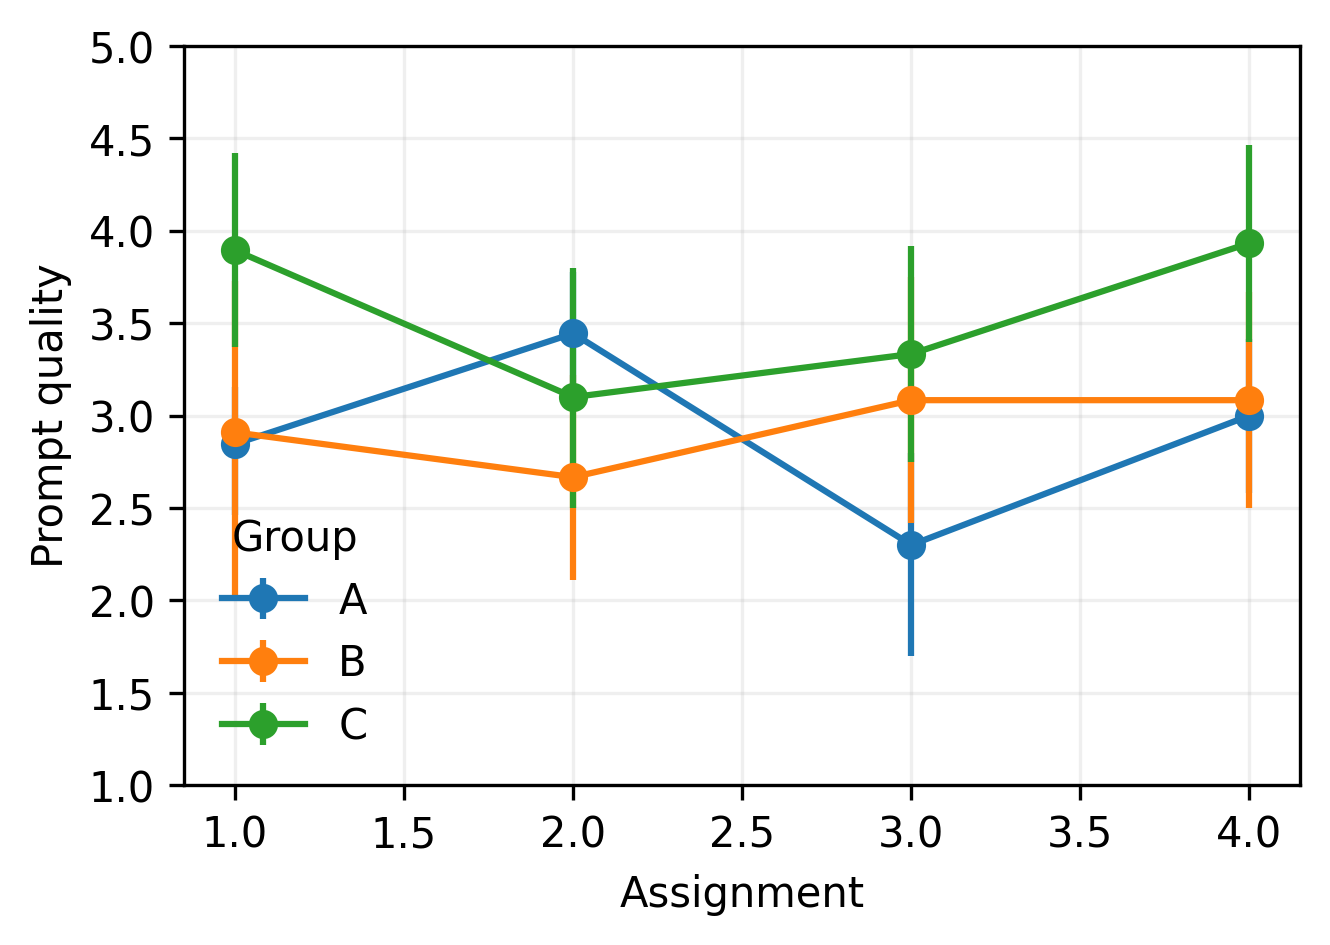
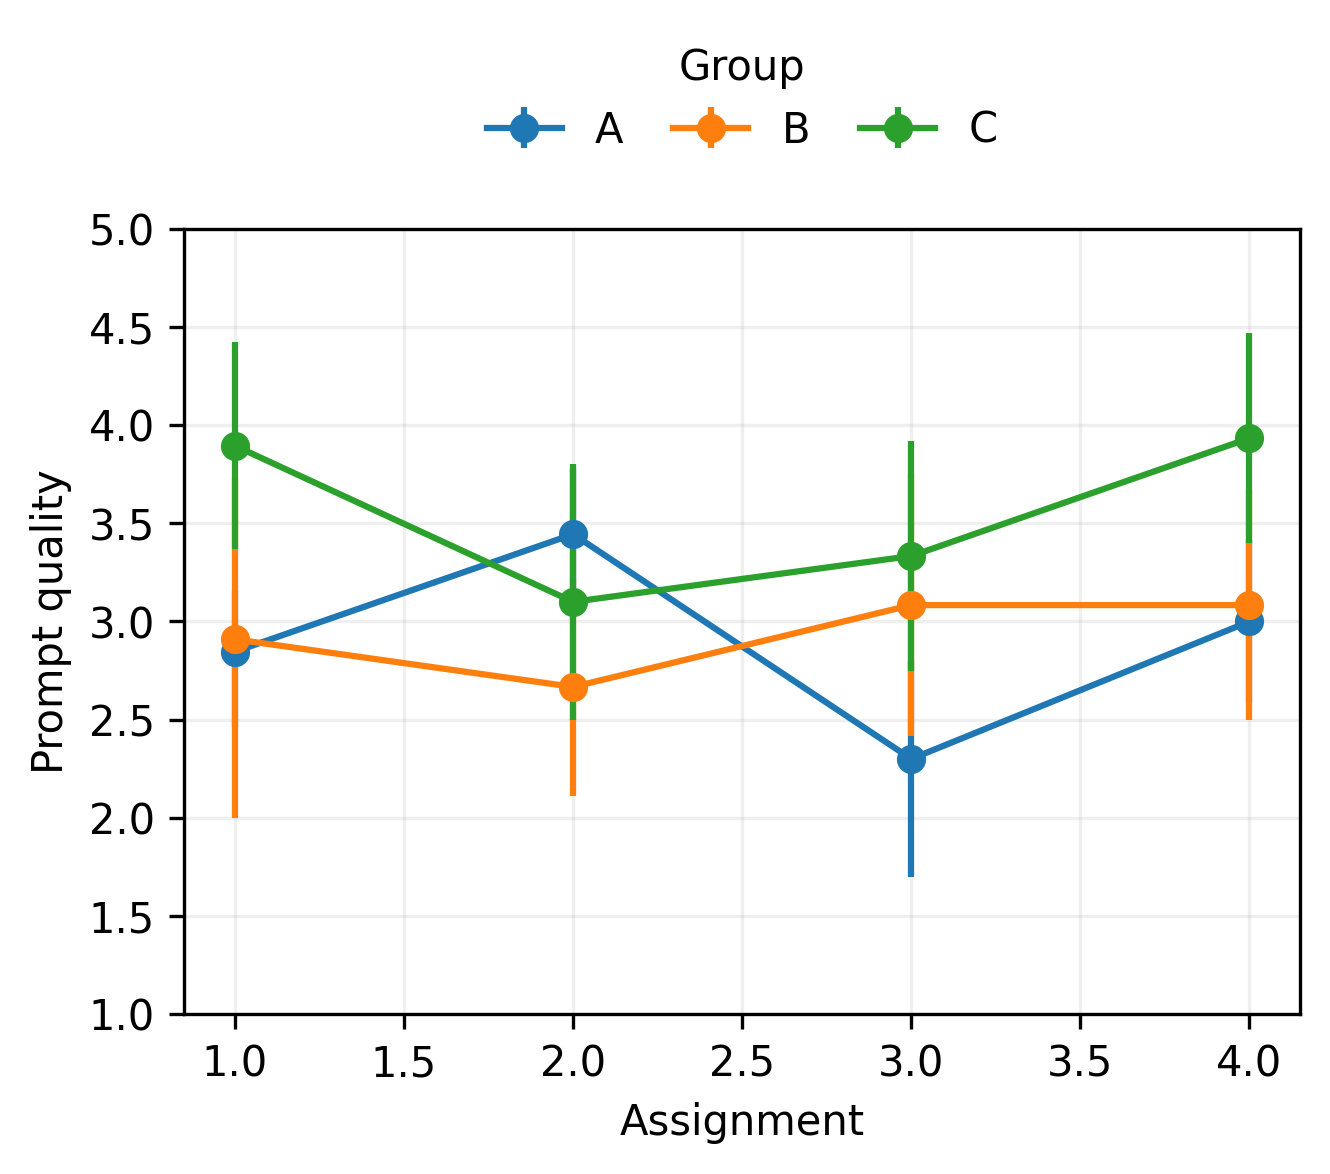
fix: move trajectory legend above axes

diff --git a/src/genai_literacy_trial/quant_figures.py b/src/genai_literacy_trial/quant_figures.py
@@ -18,14 +18,14 @@ def _save(fig, output_dir: Path, stem: str) -> list[Path]:
 
 
 def plot_prompt_quality_trajectory(table: pd.DataFrame, output_dir: Path) -> list[Path]:
-    fig, ax = plt.subplots(figsize=(4.8, 3.2))
+    fig, ax = plt.subplots(figsize=(4.8, 3.4))
     for group, part in table.groupby("group", sort=True):
         part = part.sort_values("assignment")
         ax.errorbar(part["assignment"], part["mean"], yerr=[part["mean"] - part["ci_low"], part["ci_high"] - part["mean"]], marker="o", label=str(group), linewidth=1.5)
     ax.set_xlabel("Assignment")
     ax.set_ylabel("Prompt quality")
     ax.set_ylim(1, 5)
-    ax.legend(title="Group", frameon=False)
+    ax.legend(title="Group", loc="upper center", bbox_to_anchor=(0.5, 1.28), ncol=3, frameon=False, handlelength=1.8, columnspacing=1.2)
     ax.grid(alpha=0.2)
     return _save(fig, output_dir, "fig_prompt_quality_trajectory")
 
